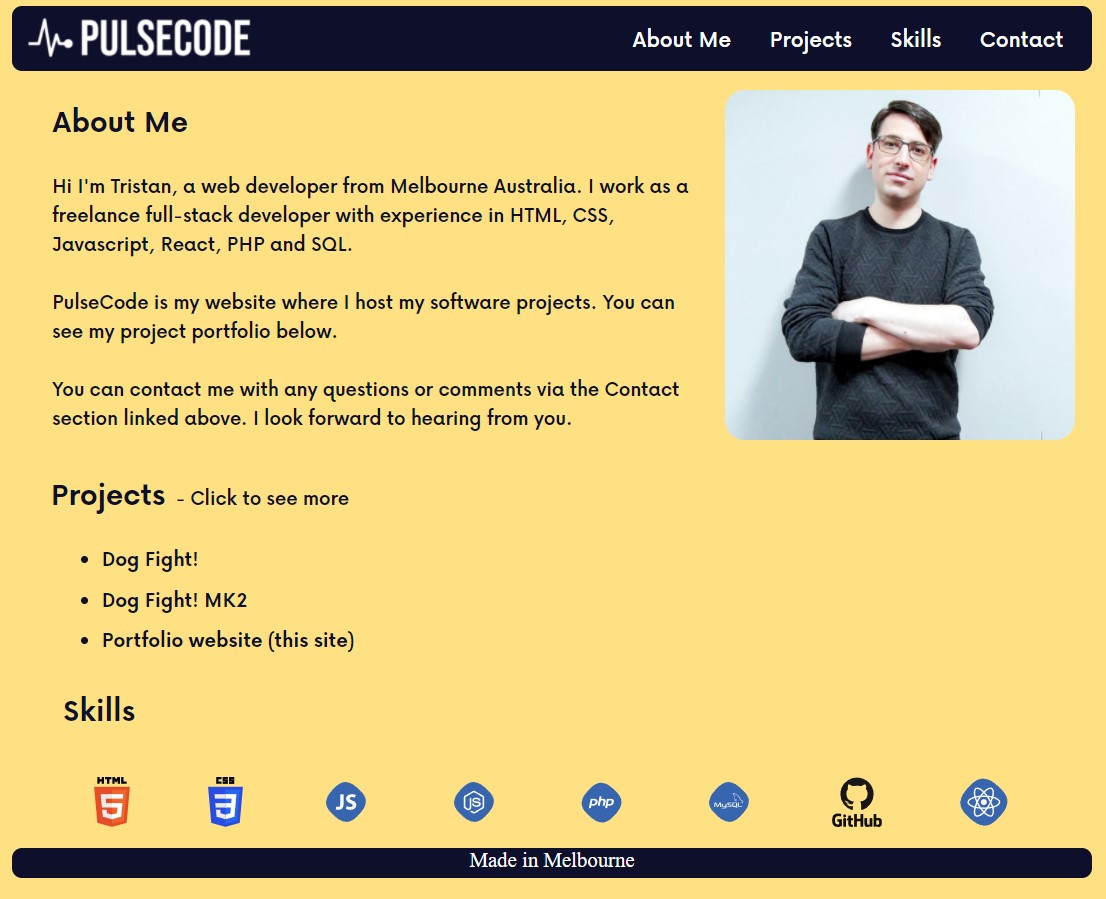
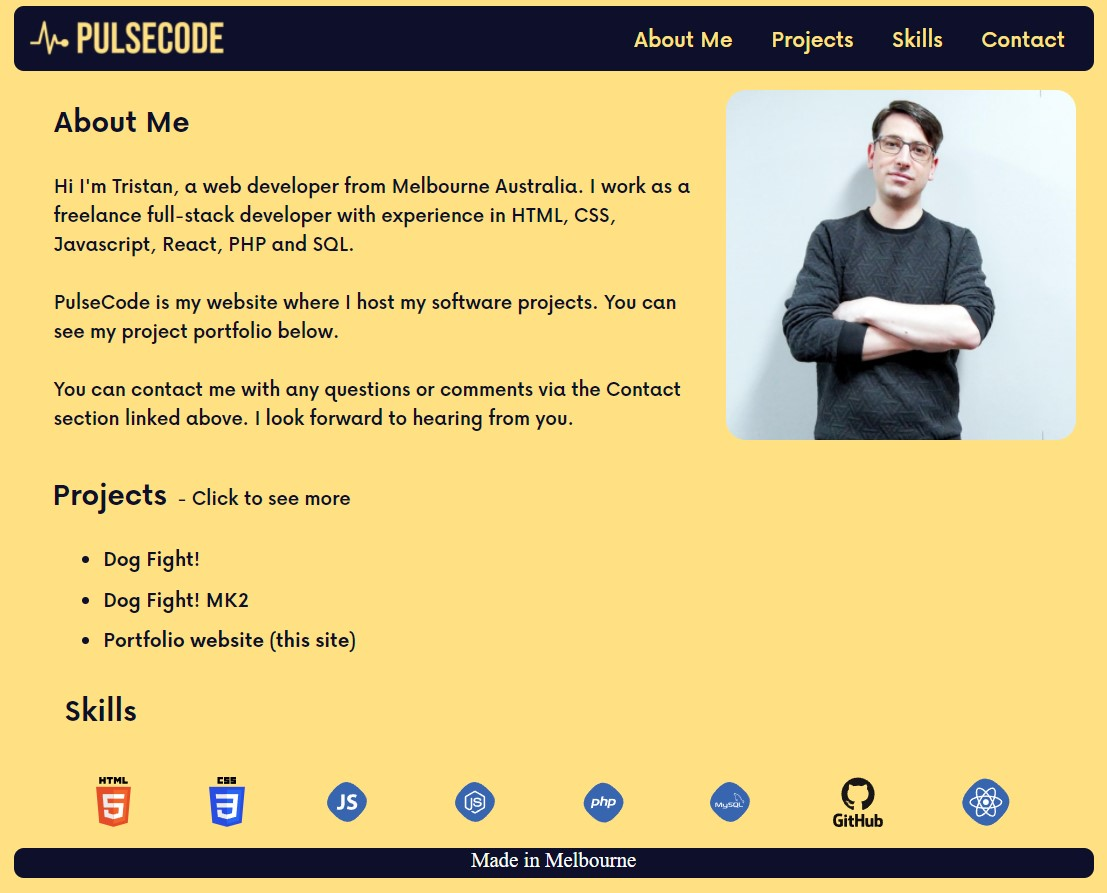
change text colour

diff --git a/resources/css/style.css b/resources/css/style.css
@@ -25,7 +25,7 @@ h2, p, li {
 
 header a {
 	text-decoration: none;
-	color: #fde4c5;
+	
 }
 
 #bigNav h1, #bigNav ul {
@@ -35,7 +35,6 @@ header a {
 header h1 {
 	padding-left: 0.3em;
 	float: left;
-	color: #3e3734;
 	font-family: NowBold;
 	
 }
@@ -54,7 +53,7 @@ header h1 {
 #bigNav a {
 	font-family: 'NowSemibold';
 	font-size: 1.3em;
-	color: white;
+	color: #FFE184;
 	text-decoration: none;
 }
 
@@ -97,7 +96,7 @@ header h1 {
 }
 
 #pcLogo {
-	height: 75px;
+	height: 65px;
 	display: inline-block;
 	float: left;
 }
@@ -110,7 +109,7 @@ header h1 {
 }
 
 .menuIcon {
-	fill: white;
+	fill: #FFE184;
 }
 
 @media (hover: hover) {
@@ -139,7 +138,7 @@ header h1 {
 }
 
 #mobileNav a {
-	color: white;
+	color: #FFE184;
 	font-size: 1.2em;
 	text-decoration: none;
 }
@@ -255,7 +254,7 @@ footer {
 	height: 30px;
 	border-radius: 10px;
 	margin: 10px;
-	color: white;
+	color: #FFE184;
 }
 
 #contact {
